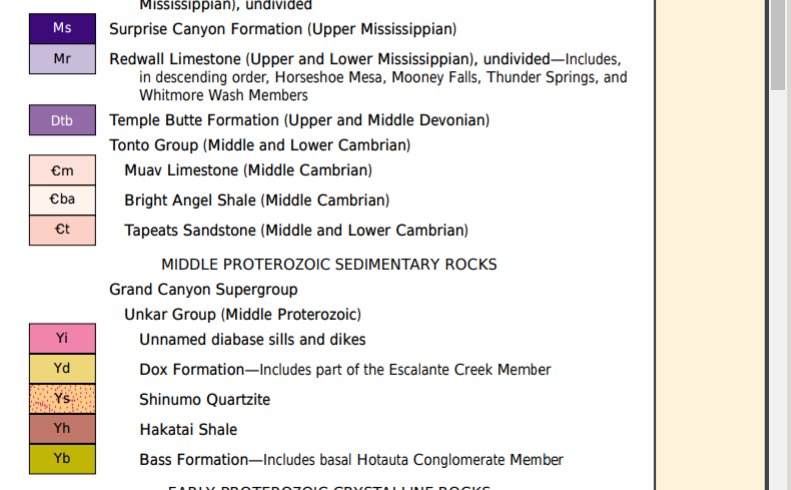
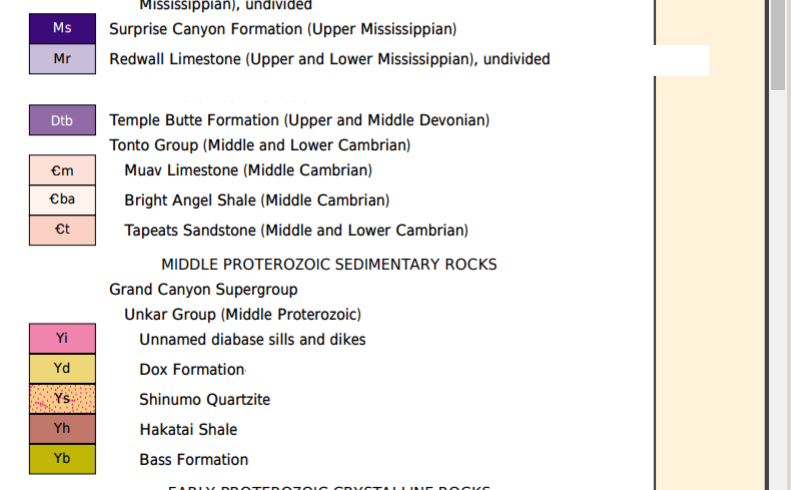
Manually edit layers screenshot to simplify legend

diff --git a/Articles/North-Kaibab/crop_legends.py b/Articles/North-Kaibab/crop_legends.py
@@ -5,7 +5,8 @@ h = 30
 def r(y0, dx=0):
     return (x0+dx,y0, x1+dx,y0+h)
 plan = [
-    (1, 'Mr', (x0,13+30, x1,104)),
+    #(1, 'Mr', (x0,13+30, x1,104)),
+    (1, 'Mr', r(13+30)),
     (1, 'Dtb', r(105)),
     (1, 'Cm', r(155)),
     (1, 'Cba', r(155+h)),
